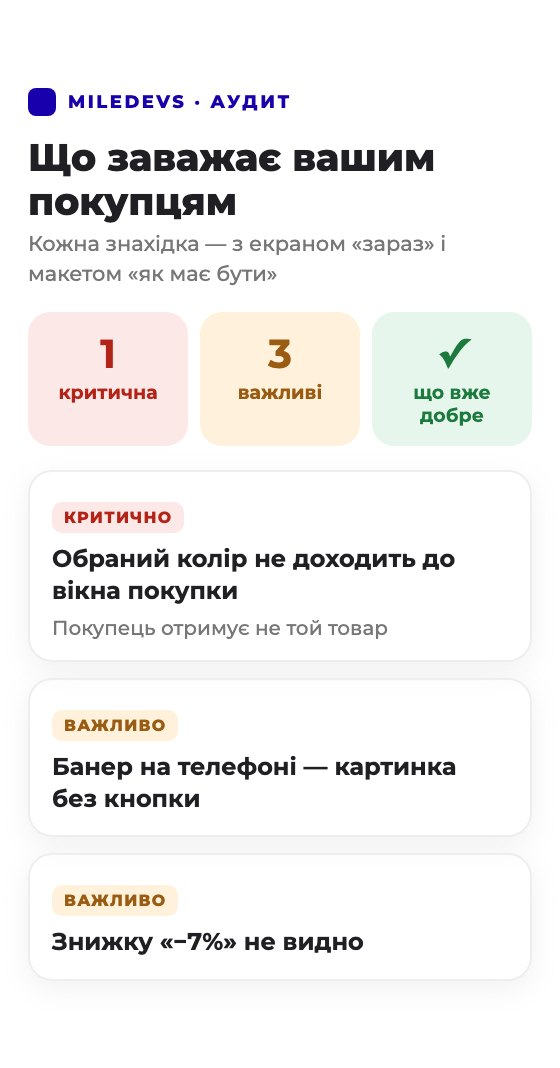
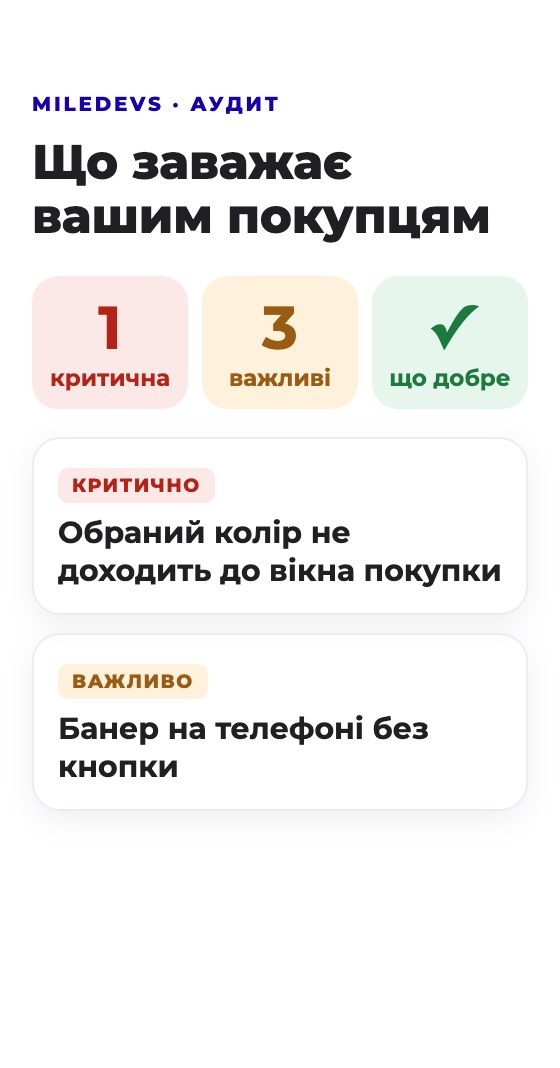
Design pass: hero buttons inline, readable report screen, no waves, bigger example phones, step cards, contrast

diff --git a/index.html b/index.html
@@ -21,7 +21,7 @@
 :root{
   --yellow:#1800ad;--yellow-soft:#1800ad;--yellow-light:#E9E6FF;--yellow-pale:#F1EFFF;--blue-2:#2B17D9;--blue-tint:#8F82FF;
   --orange:#F56400;--orange2:#FF7D23;
-  --text:#23282d;--body:#4a4a4a;--muted:#7b7b7b;--grey:#E6E6E6;--grey-bg:#F5F5F7;--input:#EFEFEF;
+  --text:#23282d;--body:#4a4a4a;--muted:#5f6268;--grey:#E6E6E6;--grey-bg:#F5F5F7;--input:#EFEFEF;
   --footer:#3D3D3D;--white:#fff;
   --shadow:0 15px 60px 0 rgba(138,141,160,.15);--shadow-2:0 15px 60px 0 rgba(138,141,160,.25);
   --r:20px;--f:"Montserrat",Arial,sans-serif;
@@ -498,6 +498,38 @@ footer{background:#fff;border-top:1px solid var(--grey);padding:34px 0 26px;colo
   .mcta.show{transform:none;opacity:1;pointer-events:auto}
   footer{padding-bottom:84px}
 }
+
+/* design pass 05.10 */
+.proof i{font-style:normal;white-space:nowrap}
+.steps .step{background:#fff;border:1px solid var(--grey);border-radius:16px;box-shadow:var(--shadow);padding:22px 24px}
+.steps .step .box{background:none;border:0;box-shadow:none;padding:0}
+@media (max-width:900px){.steps .step{gap:16px}}
+
+.hero .cta{flex-wrap:nowrap;gap:12px}
+.hero .cta .btn{min-width:0;padding:17px 24px}
+.risk{margin-top:20px}
+.proof{margin-top:14px!important;font-size:14px!important;color:var(--muted)!important;display:flex;flex-wrap:wrap;gap:4px 8px;align-items:center}
+.proof b{color:var(--text);font-weight:700}
+.proof span{color:#c2c4ca}
+#what .demo-phones .nowgrp .phone,#what .demo-phones>.pcol .phone{width:240px;max-width:240px}
+#what .demo-phones{gap:28px;padding:34px 20px 26px}
+#what .demo-phones .arrow{width:48px;height:48px;flex-basis:48px}
+.pcol .cap{max-width:240px;font-size:14px}
+.steps .tl{grid-template-columns:repeat(3,minmax(0,1fr));gap:20px;max-width:1100px}
+.steps .tl:before{display:none}
+.steps .step{display:flex;flex-direction:column;gap:14px;align-items:stretch}
+.steps .step .num,.steps .step .box{grid-column:auto!important;grid-row:auto!important}
+.steps .step .num{justify-self:auto;align-self:flex-start;width:44px;height:44px;margin:0!important;background:var(--yellow);border-color:var(--yellow);color:#fff;font-size:16px;font-weight:700}
+.steps .step .box{flex:1}
+@media (max-width:1200px){#what .demo-phones .nowgrp .phone,#what .demo-phones>.pcol .phone{width:210px;max-width:210px}}
+@media (max-width:900px){.steps .tl{grid-template-columns:minmax(0,1fr)}.steps .step{flex-direction:row;align-items:flex-start}.steps .step .num{flex:0 0 44px}}
+@media (max-width:640px){
+  .hero .cta{flex-wrap:wrap}
+  .hero .cta .btn{width:100%}
+  #what .demo-phones .nowgrp .phone,#what .demo-phones>.pcol .phone{width:220px;max-width:220px}
+  .pcol .cap{max-width:220px}
+  .f-nav{justify-content:center;gap:10px 18px}
+}
 </style>
 <script>
 /* Аналітика для реклами: вставте ID — і все запрацює. Lead шлеться після успішної заявки. */
@@ -524,7 +556,6 @@ window.MD_GA4_ID='';          /* GA4, напр. 'G-XXXXXXX' */
 
 <!-- HERO -->
 <section class="hero" id="top">
-  <div class="wave l" aria-hidden="true"><svg viewBox="0 0 340 1500" preserveAspectRatio="none"><path d="M0 0 C 170 0, 340 120, 322 330 C 305 540, 120 580, 104 780 C 90 980, 215 1020, 200 1230 C 186 1420, 60 1455, 0 1500 Z"/></svg></div>
   <div class="wrap">
     <div class="dots r"></div>
     <div class="hero-grid">
@@ -536,11 +567,7 @@ window.MD_GA4_ID='';          /* GA4, напр. 'G-XXXXXXX' */
           <a class="btn yellow" href="https://t.me/annserputko" target="_blank" rel="noopener">Написати в Telegram</a>
         </div>
         <ul class="risk"><li>Без оплати</li><li>Без доступів до адмінки</li><li>Без зобовʼязань</li></ul>
-        <div class="trust">
-          <span class="pillbox">Shopify Selected Partner</span>
-          <span class="pillbox">300+ <small>проєктів</small></span>
-          <span class="pillbox">7+ <small>років у Shopify</small></span>
-        </div>
+        <p class="proof"><i><b>Shopify Selected Partner</b></i><span>·</span><i><b>300+</b> проєктів</i><span>·</span><i><b>7+</b> років у Shopify</i></p>
       </div>
 
       <div class="phones rv" aria-hidden="true">
@@ -608,7 +635,6 @@ window.MD_GA4_ID='';          /* GA4, напр. 'G-XXXXXXX' */
 
 <!-- INCLUDED -->
 <section class="inc" id="included">
-  <div class="wave r" aria-hidden="true"><svg viewBox="0 0 300 1300" preserveAspectRatio="none"><path d="M300 0 C 200 20, 70 160, 80 400 C 90 620, 230 660, 218 840 C 206 1020, 110 1060, 130 1180 C 150 1260, 240 1280, 300 1300 Z"/></svg></div>
   <div class="wrap">
     <div class="title"><h2>Що входить в аудит</h2></div>
     <div class="inc2">
